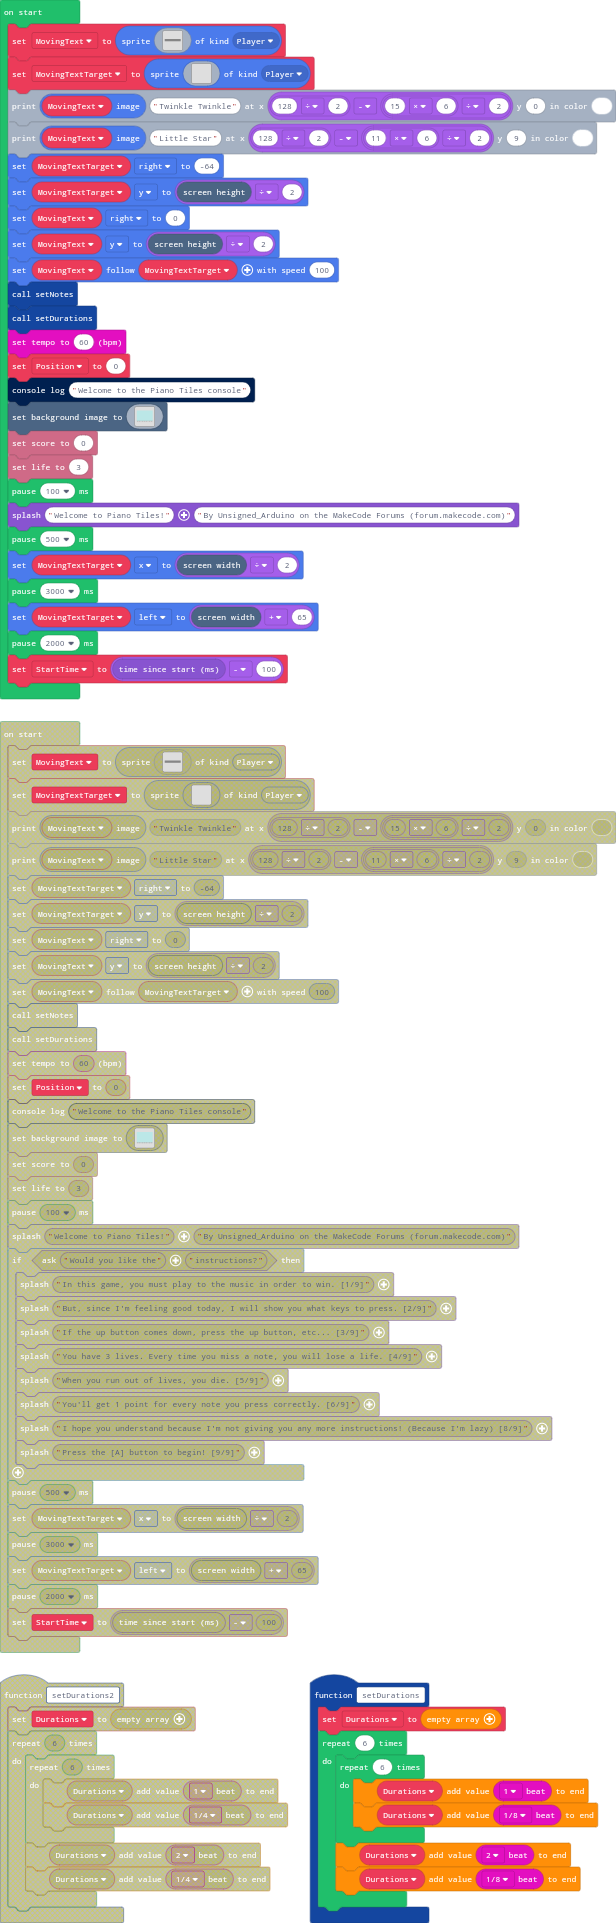
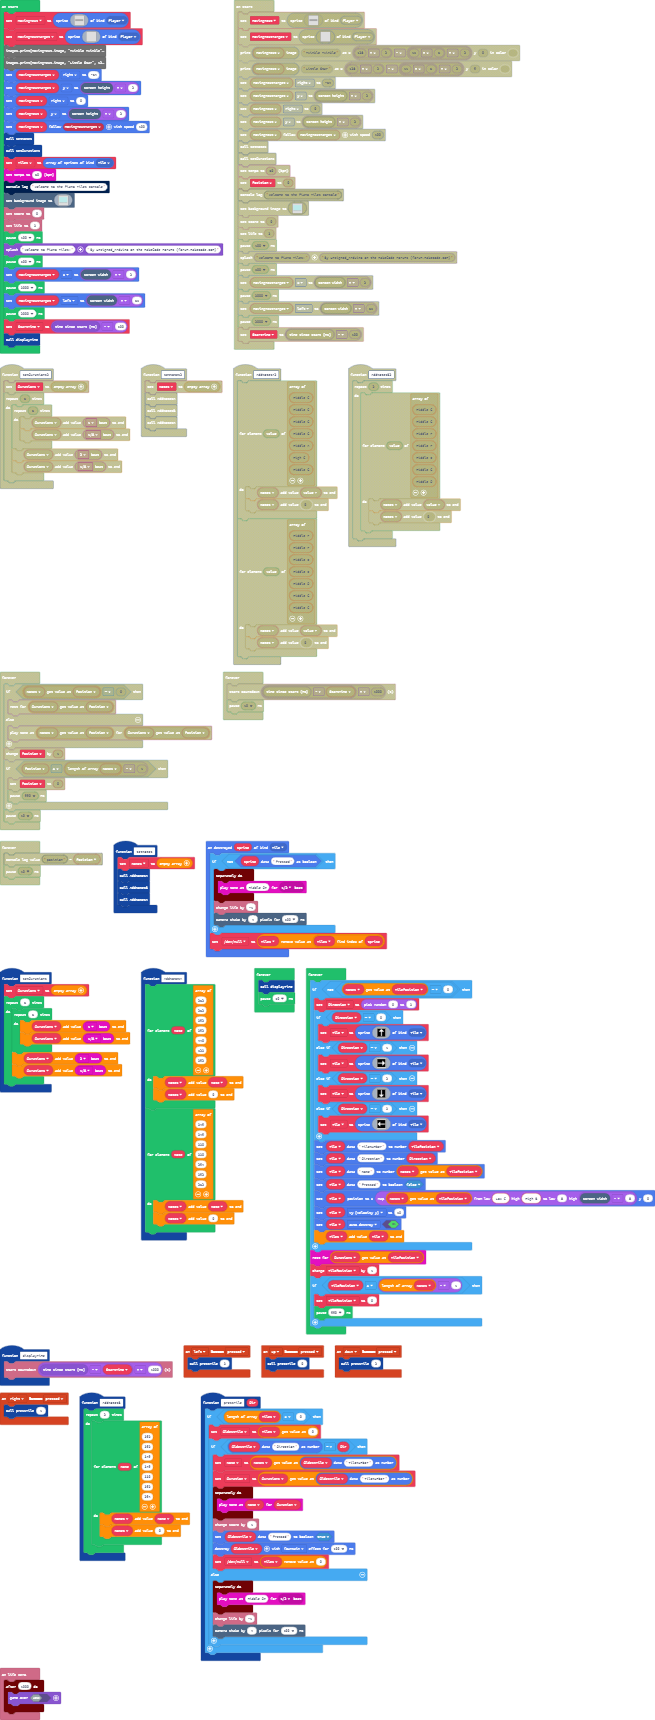
Tiles now fall down and you must press them to keep going!

diff --git a/main.ts b/main.ts
@@ -1,5 +1,6 @@
 namespace SpriteKind {
     export const Narrator = SpriteKind.create()
+    export const Tile = SpriteKind.create()
 }
 function setDurations () {
     Durations = []
@@ -12,21 +13,27 @@ function setDurations () {
         Durations.push(music.beat(BeatFraction.Eighth))
     }
 }
+controller.left.onEvent(ControllerButtonEvent.Pressed, function () {
+    pressTile(3)
+})
+controller.down.onEvent(ControllerButtonEvent.Pressed, function () {
+    pressTile(2)
+})
 function AddNotesB () {
     for (let index = 0; index < 2; index++) {
-        for (let Value of [392, 392, 349, 349, 330, 392, 294]) {
-            Notes.push(Value)
+        for (let Note3 of [392, 392, 349, 349, 330, 392, 294]) {
+            Notes.push(Note3)
             Notes.push(0)
         }
     }
 }
 function AddNotesA () {
-    for (let Value of [262, 262, 392, 392, 440, 523, 392]) {
-        Notes.push(Value)
+    for (let Note3 of [262, 262, 392, 392, 440, 523, 392]) {
+        Notes.push(Note3)
         Notes.push(0)
     }
-    for (let Value of [349, 349, 330, 330, 294, 392, 262]) {
-        Notes.push(Value)
+    for (let Note3 of [349, 349, 330, 330, 294, 392, 262]) {
+        Notes.push(Note3)
         Notes.push(0)
     }
 }
@@ -36,8 +43,63 @@ function setNotes () {
     AddNotesB()
     AddNotesA()
 }
+function pressTile (Dir: number) {
+    if (Tiles.length > 0) {
+        OldestTile = Tiles[0]
+        if (sprites.readDataNumber(OldestTile, "Direction") == Dir) {
+            Note2 = Notes[sprites.readDataNumber(OldestTile, "TileNumber")]
+            Duration = Durations[sprites.readDataNumber(OldestTile, "TileNumber")]
+            timer.background(function () {
+                music.playTone(Note2, Duration)
+            })
+            info.changeScoreBy(1)
+            sprites.setDataBoolean(OldestTile, "Pressed", true)
+            OldestTile.destroy(effects.fountain, 100)
+            devnull = Tiles.removeAt(0)
+        } else {
+            timer.background(function () {
+                music.playTone(311, music.beat(BeatFraction.Half))
+            })
+            info.changeLifeBy(-1)
+            scene.cameraShake(4, 500)
+        }
+    }
+}
+controller.right.onEvent(ControllerButtonEvent.Pressed, function () {
+    pressTile(1)
+})
+function displayTime () {
+    info.startCountdown((game.runtime() - StartTime) / 1000)
+}
+sprites.onDestroyed(SpriteKind.Tile, function (sprite) {
+    if (!(sprites.readDataBoolean(sprite, "Pressed"))) {
+        timer.background(function () {
+            music.playTone(311, music.beat(BeatFraction.Half))
+        })
+        info.changeLifeBy(-1)
+        scene.cameraShake(4, 500)
+    }
+    devnull = Tiles.removeAt(Tiles.indexOf(sprite))
+})
+controller.up.onEvent(ControllerButtonEvent.Pressed, function () {
+    pressTile(0)
+})
+info.onLifeZero(function () {
+    timer.after(1000, function () {
+        game.over(false)
+    })
+})
+let Tile: Sprite = null
+let Direction = 0
+let TilePosition = 0
+let devnull: Sprite = null
+let Duration = 0
+let Note2 = 0
+let OldestTile: Sprite = null
 let Notes: number[] = []
 let Durations: number[] = []
+let StartTime = 0
+let Tiles: Sprite[] = []
 let MovingText = sprites.create(img`
 f f f f f f f f f f f f f f f f f f f f f f f f f f f f f f f f f f f f f f f f f f f f f f f f f f f f f f f f f f f f f f f f f f f f f f f f f f f f f f f f f f f f f f f f f f f f f f f f f f f f f f f f f f f f f f f f f f f f f f f f f f f f f f f f 
 f f f f f f f f f f f f f f f f f f f f f f f f f f f f f f f f f f f f f f f f f f f f f f f f f f f f f f f f f f f f f f f f f f f f f f f f f f f f f f f f f f f f f f f f f f f f f f f f f f f f f f f f f f f f f f f f f f f f f f f f f f f f f f f f 
@@ -70,8 +132,8 @@ MovingText.y = scene.screenHeight() / 2
 MovingText.follow(MovingTextTarget, 100)
 setNotes()
 setDurations()
+Tiles = sprites.allOfKind(SpriteKind.Tile)
 music.setTempo(60)
-let Position = 0
 console.log("Welcome to the Piano Tiles console")
 scene.setBackgroundImage(img`
 9 9 9 9 9 9 9 9 9 9 9 9 9 9 9 9 9 9 9 9 9 9 9 9 9 9 9 9 9 9 9 9 9 9 9 9 9 9 9 9 9 9 9 9 9 9 9 9 9 9 9 9 9 9 9 9 9 9 9 9 9 9 9 9 9 9 9 9 9 9 9 9 9 9 9 9 9 9 9 9 9 9 9 9 9 9 9 9 9 9 9 9 9 9 9 9 9 9 9 9 9 9 9 9 9 9 9 9 9 9 9 9 9 9 9 9 9 9 9 9 9 9 9 9 9 9 9 9 9 9 9 9 9 9 9 9 9 9 9 9 9 9 9 9 9 9 9 9 9 9 9 9 9 9 9 9 9 9 9 9 
@@ -204,25 +266,105 @@ MovingTextTarget.x = scene.screenWidth() / 2
 pause(3000)
 MovingTextTarget.left = scene.screenWidth() + 65
 pause(2000)
-let StartTime = game.runtime() - 100
+StartTime = game.runtime() - 500
+displayTime()
 forever(function () {
-    if (Notes[Position] == 0) {
-        music.rest(Durations[Position])
-    } else {
-        music.playTone(Notes[Position], Durations[Position])
+    displayTime()
+    pause(50)
+})
+forever(function () {
+    if (!(Notes[TilePosition] == 0)) {
+        Direction = Math.randomRange(0, 3)
+        if (Direction == 0) {
+            Tile = sprites.create(img`
+f f f f f f f f f f f f f f f f 
+f f f f f f f 1 1 f f f f f f f 
+f f f f f f 1 1 1 1 f f f f f f 
+f f f f f 1 1 1 1 1 1 f f f f f 
+f f f f 1 1 1 1 1 1 1 1 f f f f 
+f f f 1 1 1 1 1 1 1 1 1 1 f f f 
+f f f f f f f 1 1 f f f f f f f 
+f f f f f f f 1 1 f f f f f f f 
+f f f f f f f 1 1 f f f f f f f 
+f f f f f f f 1 1 f f f f f f f 
+f f f f f f f 1 1 f f f f f f f 
+f f f f f f f 1 1 f f f f f f f 
+f f f f f f f 1 1 f f f f f f f 
+f f f f f f f 1 1 f f f f f f f 
+f f f f f f f 1 1 f f f f f f f 
+f f f f f f f f f f f f f f f f 
+`, SpriteKind.Tile)
+        } else if (Direction == 1) {
+            Tile = sprites.create(img`
+f f f f f f f f f f f f f f f f 
+f f f f f f f f f f f f f f f f 
+f f f f f f f f f f f f f f f f 
+f f f f f f f f f f 1 f f f f f 
+f f f f f f f f f f 1 1 f f f f 
+f f f f f f f f f f 1 1 1 f f f 
+f f f f f f f f f f 1 1 1 1 f f 
+f 1 1 1 1 1 1 1 1 1 1 1 1 1 1 f 
+f 1 1 1 1 1 1 1 1 1 1 1 1 1 1 f 
+f f f f f f f f f f 1 1 1 1 f f 
+f f f f f f f f f f 1 1 1 f f f 
+f f f f f f f f f f 1 1 f f f f 
+f f f f f f f f f f 1 f f f f f 
+f f f f f f f f f f f f f f f f 
+f f f f f f f f f f f f f f f f 
+f f f f f f f f f f f f f f f f 
+`, SpriteKind.Tile)
+        } else if (Direction == 2) {
+            Tile = sprites.create(img`
+f f f f f f f f f f f f f f f f 
+f f f f f f f 1 1 f f f f f f f 
+f f f f f f f 1 1 f f f f f f f 
+f f f f f f f 1 1 f f f f f f f 
+f f f f f f f 1 1 f f f f f f f 
+f f f f f f f 1 1 f f f f f f f 
+f f f f f f f 1 1 f f f f f f f 
+f f f f f f f 1 1 f f f f f f f 
+f f f f f f f 1 1 f f f f f f f 
+f f f f f f f 1 1 f f f f f f f 
+f f f 1 1 1 1 1 1 1 1 1 1 f f f 
+f f f f 1 1 1 1 1 1 1 1 f f f f 
+f f f f f 1 1 1 1 1 1 f f f f f 
+f f f f f f 1 1 1 1 f f f f f f 
+f f f f f f f 1 1 f f f f f f f 
+f f f f f f f f f f f f f f f f 
+`, SpriteKind.Tile)
+        } else if (Direction == 3) {
+            Tile = sprites.create(img`
+f f f f f f f f f f f f f f f f 
+f f f f f f f f f f f f f f f f 
+f f f f f f f f f f f f f f f f 
+f f f f f 1 f f f f f f f f f f 
+f f f f 1 1 f f f f f f f f f f 
+f f f 1 1 1 f f f f f f f f f f 
+f f 1 1 1 1 f f f f f f f f f f 
+f 1 1 1 1 1 1 1 1 1 1 1 1 1 1 f 
+f 1 1 1 1 1 1 1 1 1 1 1 1 1 1 f 
+f f 1 1 1 1 f f f f f f f f f f 
+f f f 1 1 1 f f f f f f f f f f 
+f f f f 1 1 f f f f f f f f f f 
+f f f f f 1 f f f f f f f f f f 
+f f f f f f f f f f f f f f f f 
+f f f f f f f f f f f f f f f f 
+f f f f f f f f f f f f f f f f 
+`, SpriteKind.Tile)
+        }
+        sprites.setDataNumber(Tile, "TileNumber", TilePosition)
+        sprites.setDataNumber(Tile, "Direction", Direction)
+        sprites.setDataNumber(Tile, "Note", Notes[TilePosition])
+        sprites.setDataBoolean(Tile, "Pressed", false)
+        Tile.setPosition(Math.map(Notes[TilePosition], 131, 988, 8, scene.screenWidth() - 8), 0)
+        Tile.vy = 50
+        Tile.setFlag(SpriteFlag.AutoDestroy, true)
+        Tiles.push(Tile)
     }
-    Position += 1
-    if (Position >= Notes.length - 1) {
-        Position = 0
+    music.rest(Durations[TilePosition])
+    TilePosition += 1
+    if (TilePosition >= Notes.length - 1) {
+        TilePosition = 0
         pause(990)
     }
-    pause(10)
-})
-forever(function () {
-    info.startCountdown((game.runtime() - StartTime) / 1000)
-    pause(10)
-})
-forever(function () {
-    console.logValue("position", Position)
-    pause(10)
 })
